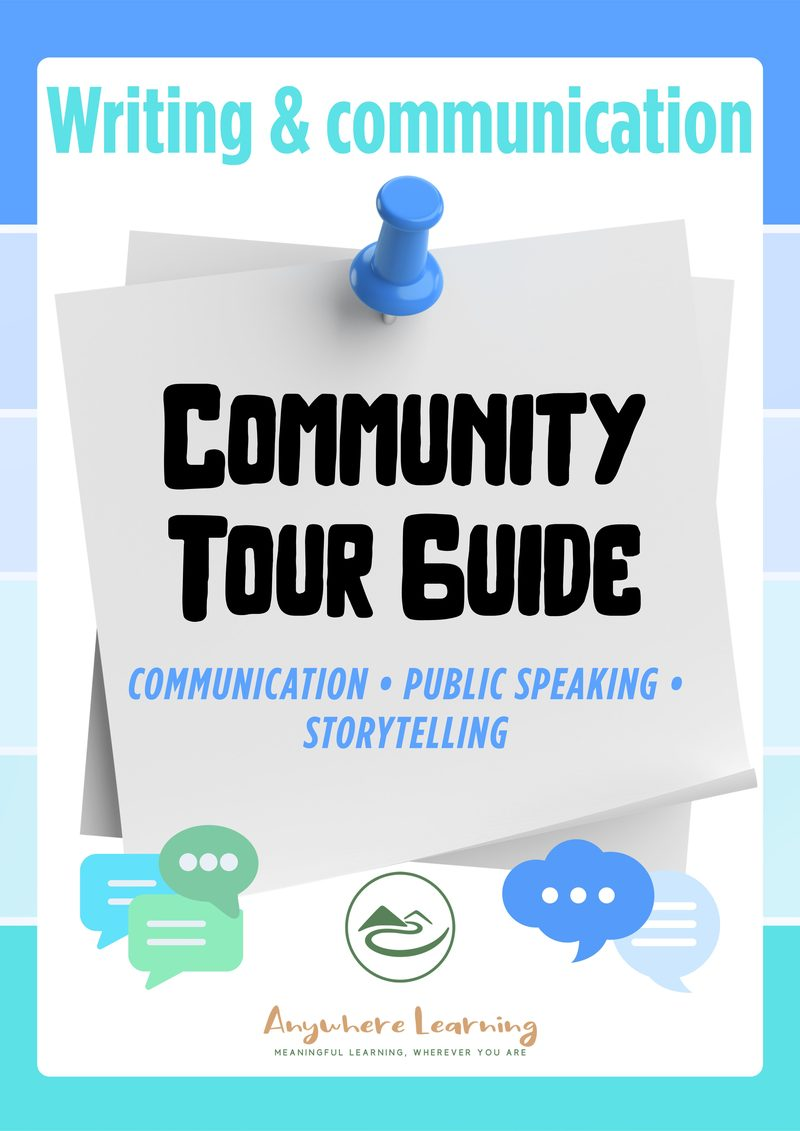
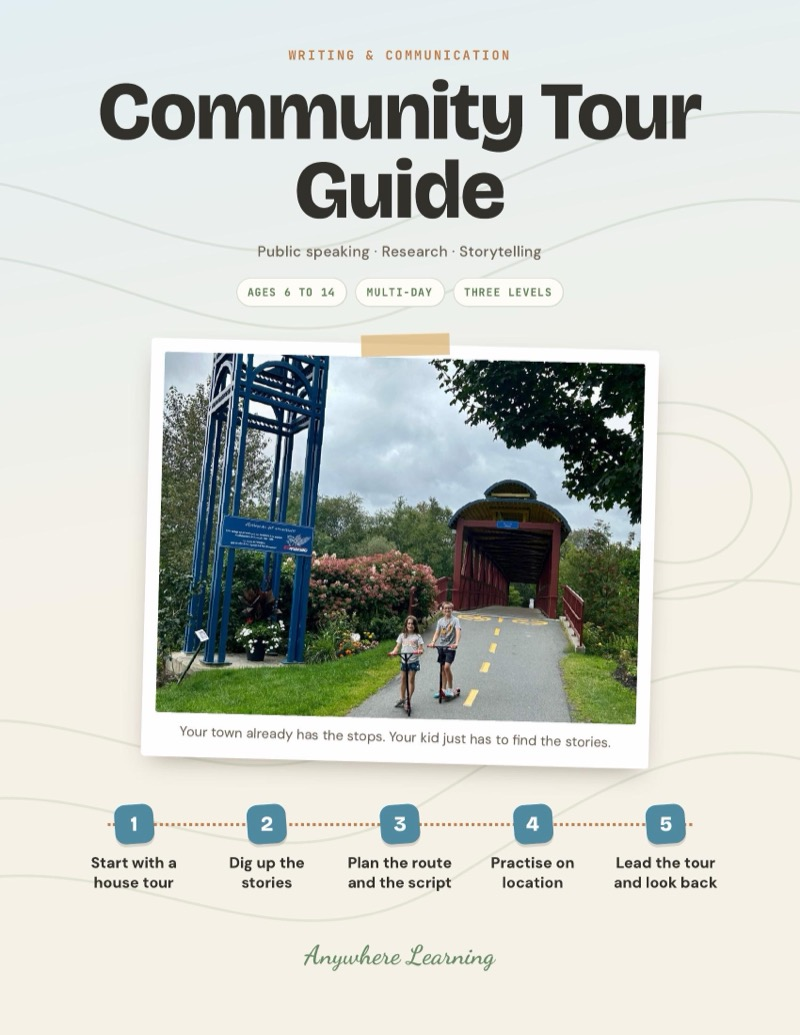
Publish redesigned My Review Column, Family Recipe Book, Community Tour Guide (member v3 + 3-page previews + new covers)

diff --git a/lib/activity-blob-urls.ts b/lib/activity-blob-urls.ts
@@ -29,7 +29,7 @@ export const ACTIVITY_BLOB_URLS: Record<string, string> = {
   "comeback-journal": "https://xkj3tzlgu6ylgllk.public.blob.vercel-storage.com/Emotional%20%26%20Social%20Skills%20-%20The%20Comeback%20Journal%20v2.pdf",
   "community-impact": "https://xkj3tzlgu6ylgllk.public.blob.vercel-storage.com/Planning%20%26%20Problem-Solving%20Community%20Impact%20Project%20v2.pdf",
   "community-service-business": "https://xkj3tzlgu6ylgllk.public.blob.vercel-storage.com/Entrepreneurship%20-%20Community%20Service%20Business%20v2.pdf",
-  "community-tour-guide": "https://xkj3tzlgu6ylgllk.public.blob.vercel-storage.com/Communication%20%26%20Writing%20-%20Community%20Tour%20Guide%20v2.pdf",
+  "community-tour-guide": "https://xkj3tzlgu6ylgllk.public.blob.vercel-storage.com/Communication%20%26%20Writing%20-%20Community%20Tour%20Guide%20v3.pdf",
   "complaint-to-product": "https://xkj3tzlgu6ylgllk.public.blob.vercel-storage.com/Entrepreneurship%20-%20Complaint%20to%20Product%20v2.pdf",
   "conflict-fix": "https://xkj3tzlgu6ylgllk.public.blob.vercel-storage.com/Emotional%20%26%20Social%20Skills%20-%20The%20Conflict%20Fix%20v2.pdf",
   "create-with-ai": "https://xkj3tzlgu6ylgllk.public.blob.vercel-storage.com/AI%20%26%20Digital%20Literacy%20-%20CREATE%20WITH%20AI%2C%20ETHICALLY%20v2.pdf",
@@ -49,7 +49,7 @@ export const ACTIVITY_BLOB_URLS: Record<string, string> = {
   "family-debate-night": "https://xkj3tzlgu6ylgllk.public.blob.vercel-storage.com/Communication%20%26%20Writing%20-%20Family%20Debate%20Night%20v2.pdf",
   "family-electricity-audit": "https://xkj3tzlgu6ylgllk.public.blob.vercel-storage.com/Real-world%20math%20-%20Family%20Electricity%20Audit%20v2.pdf",
   "family-history-detective": "https://xkj3tzlgu6ylgllk.public.blob.vercel-storage.com/Communication%20%26%20Writing%20-%20Family%20History%20Detective%20v2.pdf",
-  "family-recipe-book": "https://xkj3tzlgu6ylgllk.public.blob.vercel-storage.com/Communication%20%26%20Writing%20-%20Family%20Recipe%20Book%20v2.pdf",
+  "family-recipe-book": "https://xkj3tzlgu6ylgllk.public.blob.vercel-storage.com/Communication%20%26%20Writing%20-%20Family%20Recipe%20Book%20v3.pdf",
   "farmers-market-challenge": "https://xkj3tzlgu6ylgllk.public.blob.vercel-storage.com/Real-world%20math%20-%20Farmers%20Market%20Challenge%20v2.pdf",
   "fix-it-detective": "https://xkj3tzlgu6ylgllk.public.blob.vercel-storage.com/Planning%20%26%20Problem-Solving%20Fix-it%20detective%20v2.pdf",
   "frustration-tolerance-cards": "https://xkj3tzlgu6ylgllk.public.blob.vercel-storage.com/Emotional%20%26%20Social%20Skills%20-%20Frustration%20Tolerance%20Challenge%20Cards%20v2.pdf",
@@ -75,7 +75,7 @@ export const ACTIVITY_BLOB_URLS: Record<string, string> = {
   "micro-business": "https://xkj3tzlgu6ylgllk.public.blob.vercel-storage.com/Entrepreneurship%20-%20Micro-business%20challenge%20v2.pdf",
   "mini-magazine-creator": "https://xkj3tzlgu6ylgllk.public.blob.vercel-storage.com/Communication%20%26%20Writing%20-%20Mini%20Magazine%20Creator%20v2.pdf",
   "mini-movie": "https://xkj3tzlgu6ylgllk.public.blob.vercel-storage.com/Creativity%20%26%20Maker%20Create%20a%20Mini%20Movie%2C%20Stop-Motion%20or%20Radio%20Drama%20v2.pdf",
-  "my-review-column": "https://xkj3tzlgu6ylgllk.public.blob.vercel-storage.com/Communication%20%26%20Writing%20-%20My%20Review%20Column%20v2.pdf",
+  "my-review-column": "https://xkj3tzlgu6ylgllk.public.blob.vercel-storage.com/Communication%20%26%20Writing%20-%20My%20Review%20Column%20v3.pdf",
   "nature-choice-boards": "https://xkj3tzlgu6ylgllk.public.blob.vercel-storage.com/Outdoor%20Learning%20-%20Nature%20Choice%20Boards%20v2.pdf",
   "nature-crafts": "https://xkj3tzlgu6ylgllk.public.blob.vercel-storage.com/Outdoor%20Learning%20-%20Nature%20crafts%20for%20kids%20v2.pdf",
   "nature-data-tracker": "https://xkj3tzlgu6ylgllk.public.blob.vercel-storage.com/Real-world%20math%20-%20Nature%20Data%20Tracker%20v2.pdf",

diff --git a/lib/fallback-products.ts b/lib/fallback-products.ts
@@ -1338,7 +1338,7 @@ export const fallbackProducts: FallbackProduct[] = [
     stripePriceId: "price_1TLo8iAkIBECpwGmITWjmOaq",
     blobUrl: "",
     imageUrl: "/products/community-tour-guide.jpg",
-    previewFile: "Preview Communication & Writing - Community Tour Guide.pdf",
+    previewFile: "Preview Communication & Writing - Community Tour Guide v3.pdf",
     category: "communication-writing",
     isBundle: false,
     bundleProductIds: null,
@@ -1407,7 +1407,7 @@ export const fallbackProducts: FallbackProduct[] = [
     stripePriceId: "price_1TLo8hAkIBECpwGmsygtytDp",
     blobUrl: "",
     imageUrl: "/products/family-recipe-book.jpg",
-    previewFile: "Preview Communication & Writing - Family Recipe Book.pdf",
+    previewFile: "Preview Communication & Writing - Family Recipe Book v3.pdf",
     category: "communication-writing",
     isBundle: false,
     bundleProductIds: null,
@@ -1476,7 +1476,7 @@ export const fallbackProducts: FallbackProduct[] = [
     stripePriceId: "price_1TLo8hAkIBECpwGm1sZFuzpq",
     blobUrl: "",
     imageUrl: "/products/my-review-column.jpg",
-    previewFile: "Preview Communication & Writing - My Review Column.pdf",
+    previewFile: "Preview Communication & Writing - My Review Column v3.pdf",
     category: "communication-writing",
     isBundle: false,
     bundleProductIds: null,
